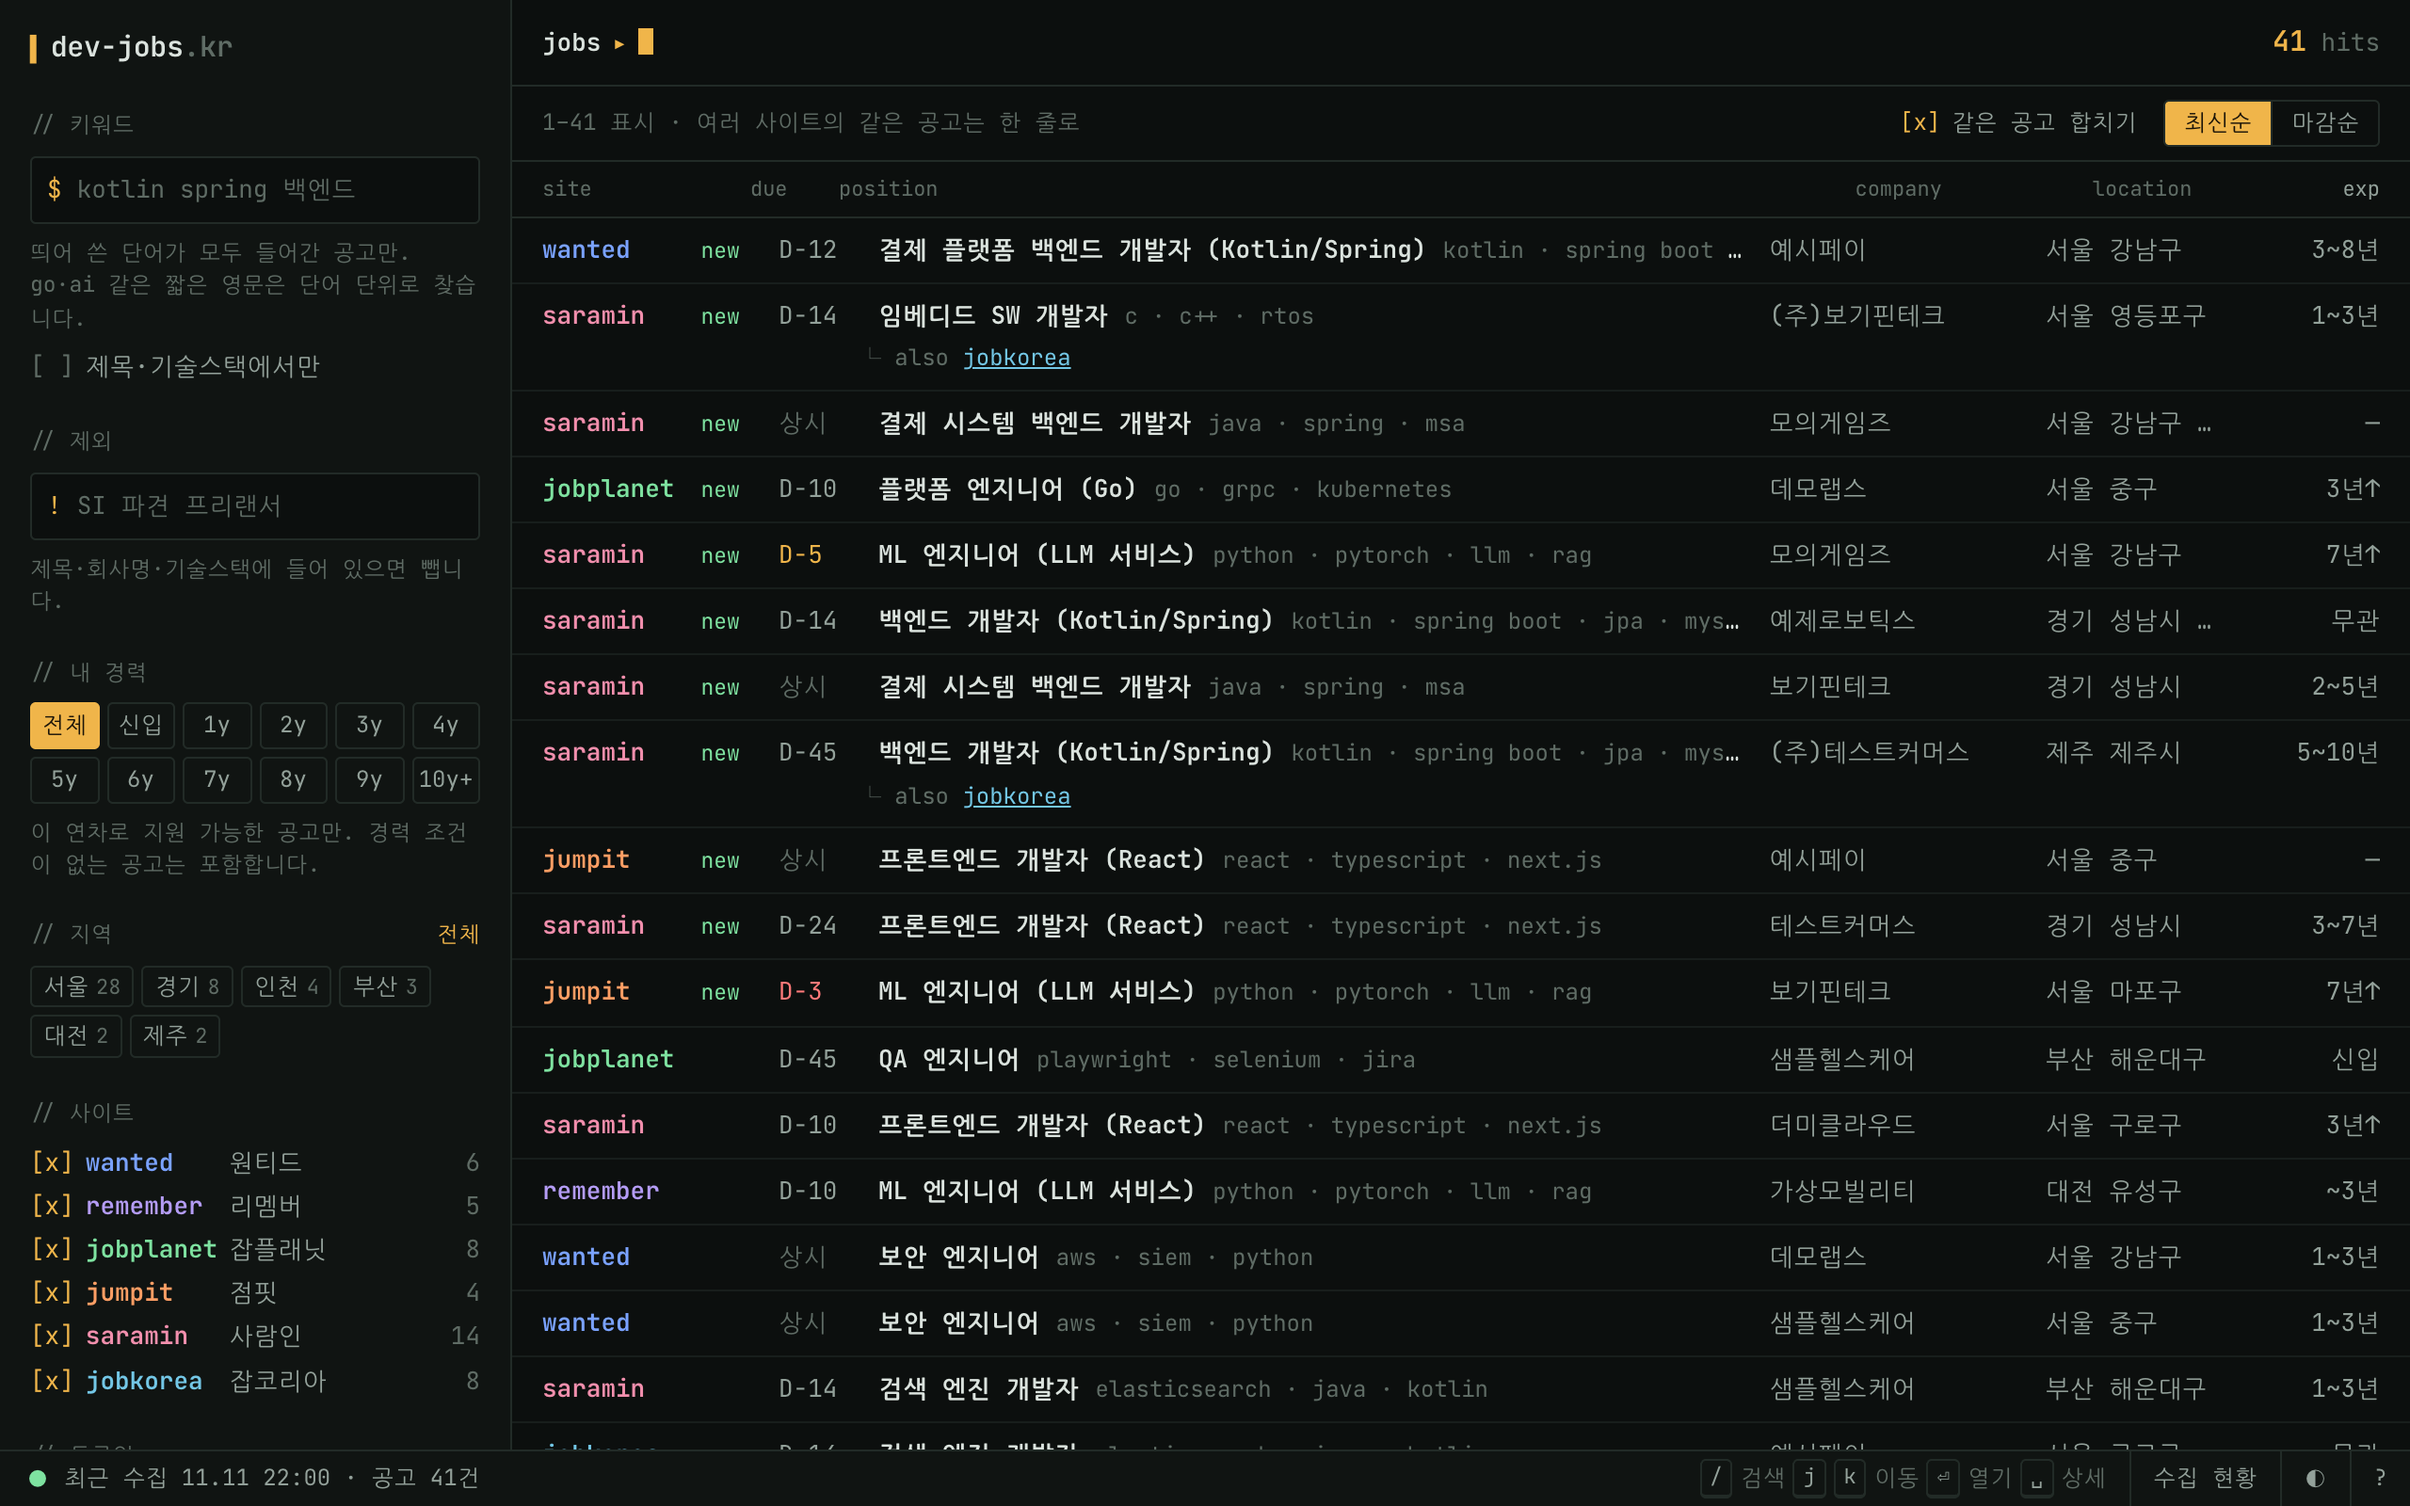
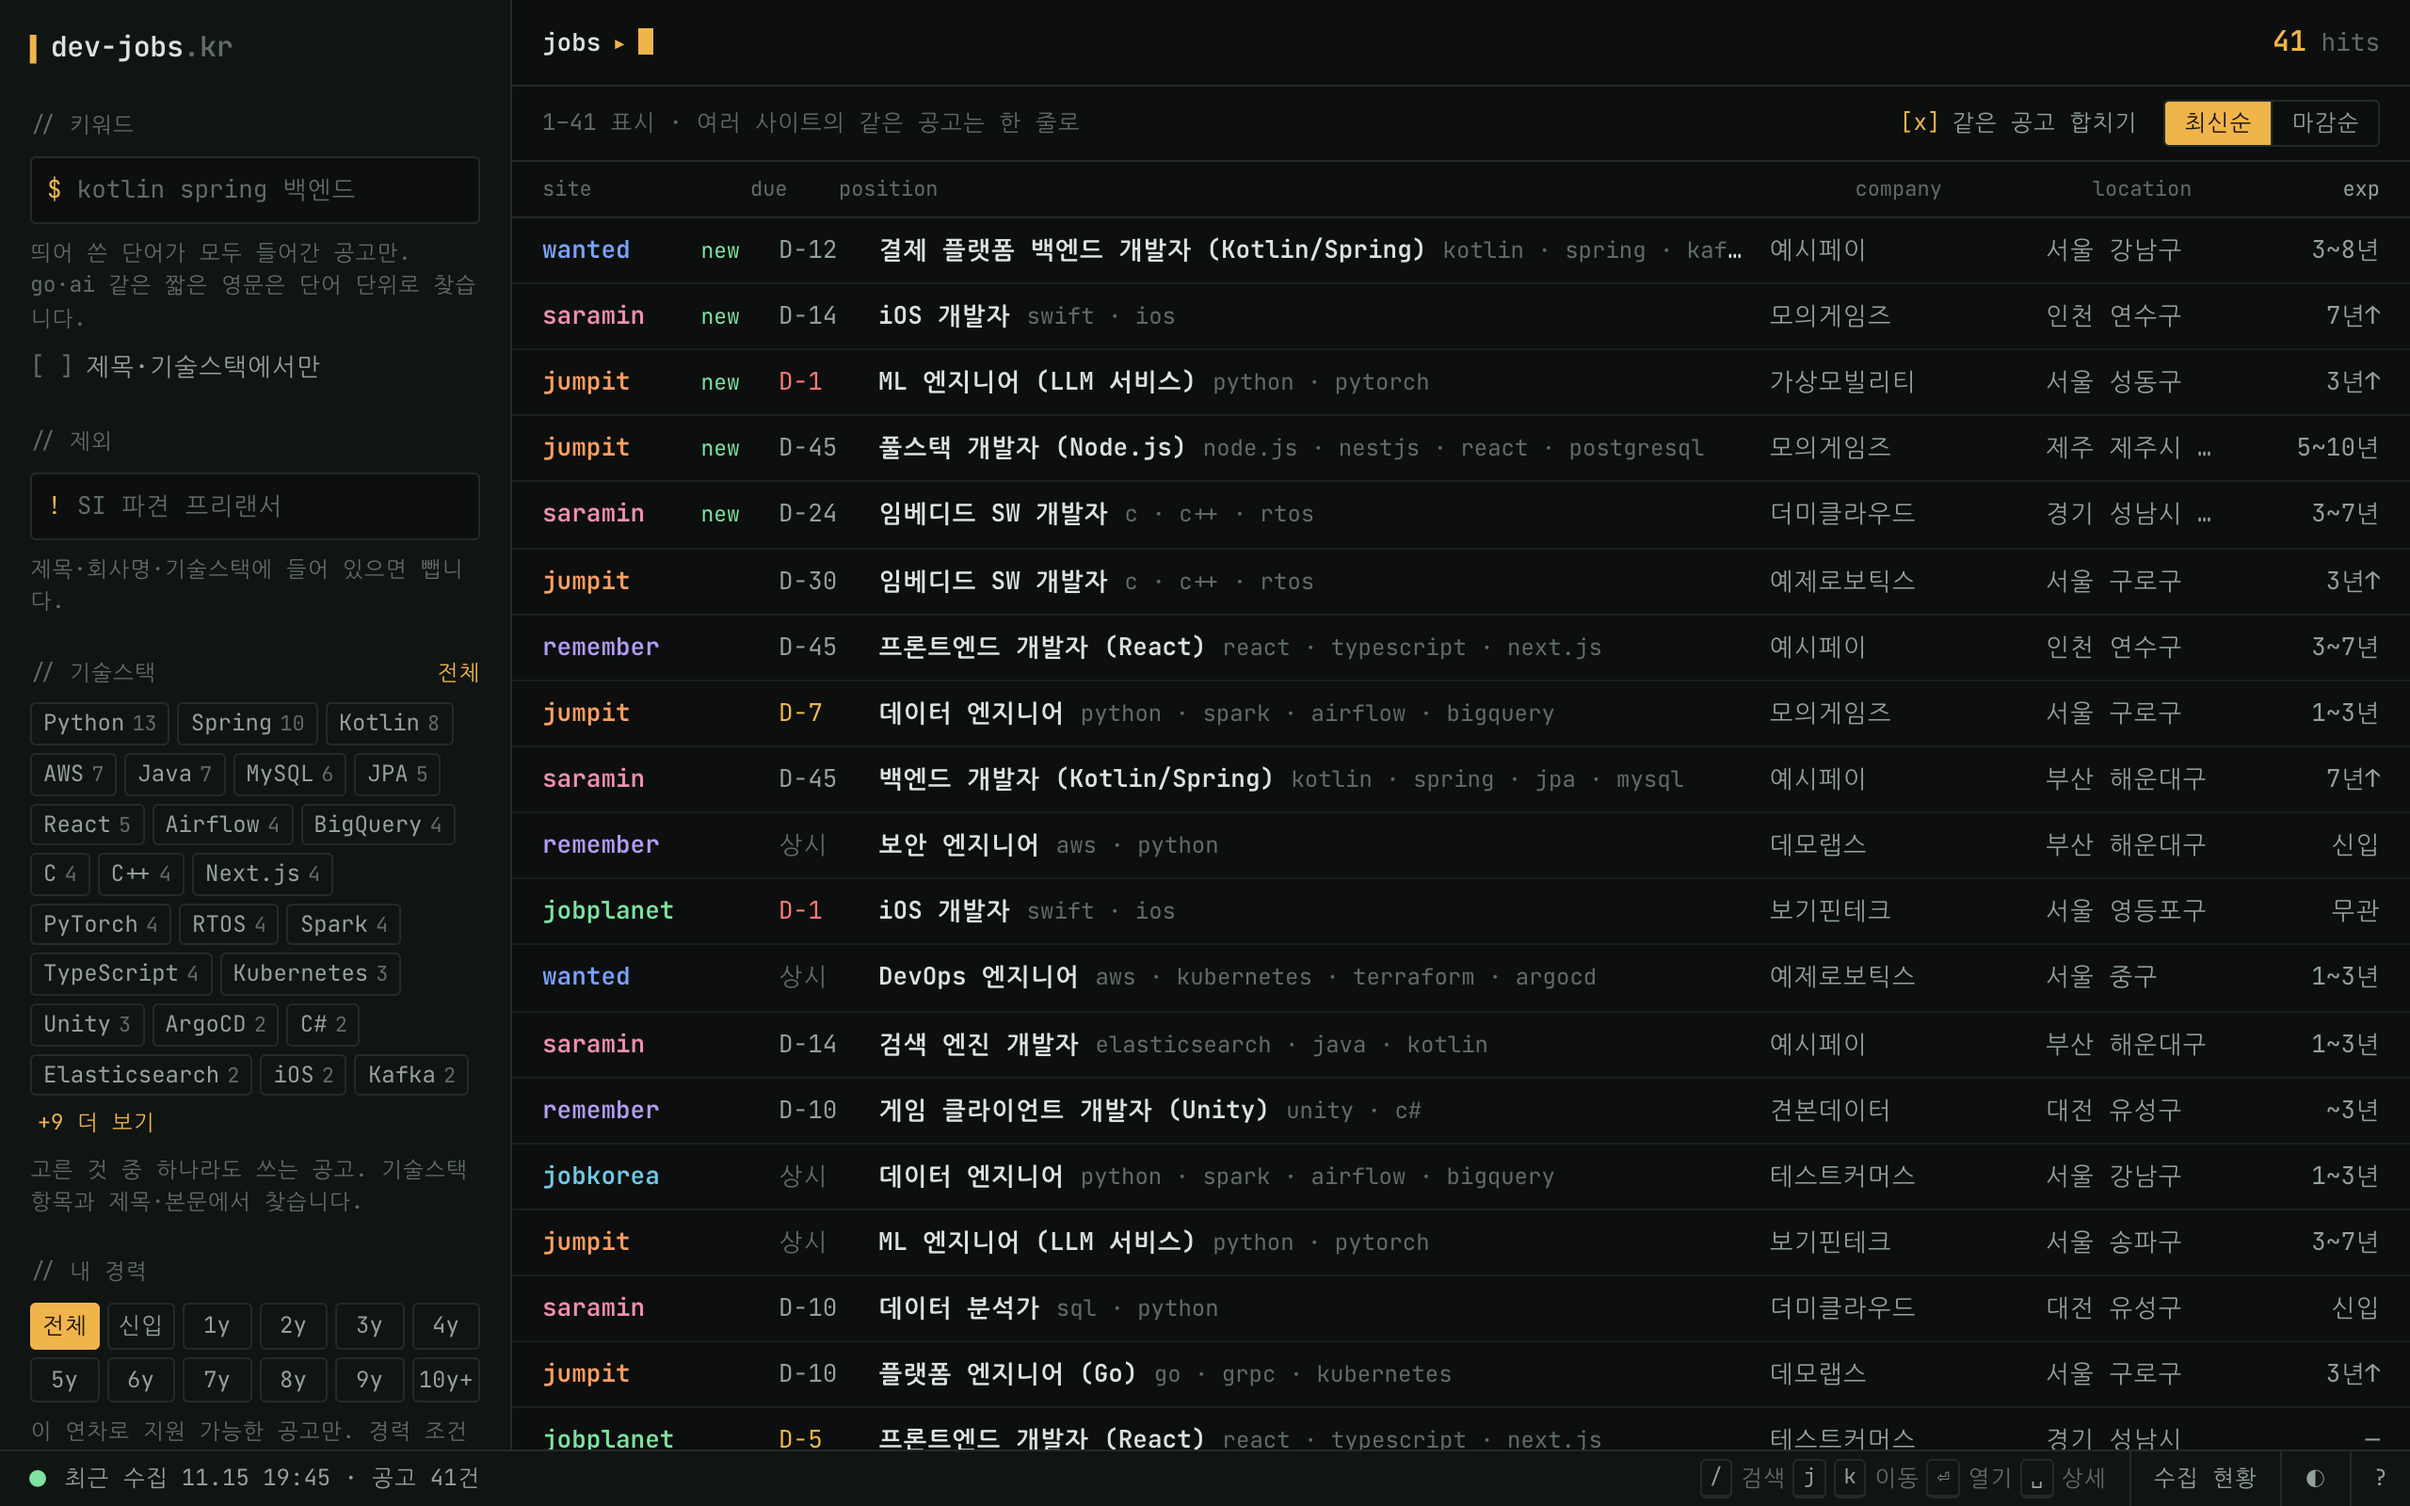
README를 현재 구현에 맞게 갱신
- 나머지 스크린샷(PC 목록, 폰 목록, 폰 상세)도 기술스택 필터와 process 줄이 보이는 화면으로 교체
- 소개, 수집 흐름, 화면 기능에 기술스택·채용 절차 반영
- 단축키를 도움말 창과 같게 (o, 화살표, esc 추가)
- 프로젝트 구조에 viewer/app·public과 기술스택·채용 절차 테스트 추가

diff --git a/README.md b/README.md
@@ -2,7 +2,7 @@
 
 원티드 · 리멤버 · 잡플래닛 · 점핏 · 사람인 · 잡코리아의 개발 직군 채용공고를
 [browser-harness](https://github.com/browser-use/browser-harness)로 수집해서,
-키워드 · 지역 · 경력 같은 조건으로 한 번에 찾는 개인용 서비스입니다.
+키워드 · 기술스택 · 채용 절차 · 지역 · 경력 같은 조건으로 한 번에 찾는 개인용 서비스입니다.
 
 수집과 조회가 나뉘어 있습니다. **수집은 맥북에서** 필요할 때 직접 실행하고, 끝나면 결과가 Supabase로 올라갑니다.
 **조회는 웹앱에서** 합니다. 웹앱은 Supabase만 읽으니 맥북이 꺼져 있어도 폰에서 볼 수 있습니다.
@@ -14,11 +14,11 @@
 
 | PC · 검색 조건과 공고 목록 | PC · 키워드 검색과 공고 상세 |
 | :---: | :---: |
-| <img src="docs/screenshots/desktop.png" width="400" alt="PC 화면: 왼쪽 검색 조건과 오른쪽 공고 목록"> | <img src="docs/screenshots/desktop-detail.png" width="400" alt="PC 화면: kotlin 키워드에 기술스택(Kotlin, Spring)과 채용 절차(코딩테스트·2차면접 있음, 사전과제 없음)로 좁힌 공고의 상세 정보와 본문"> |
+| <img src="docs/screenshots/desktop.png" width="400" alt="PC 화면: 왼쪽 검색 조건(키워드·제외·기술스택·경력)과 오른쪽 공고 목록"> | <img src="docs/screenshots/desktop-detail.png" width="400" alt="PC 화면: kotlin 키워드에 기술스택(Kotlin, Spring)과 채용 절차(코딩테스트·2차면접 있음, 사전과제 없음)로 좁힌 공고의 상세 정보와 본문"> |
 
 | 폰 · 공고 목록 | 폰 · 기술스택 · 채용 절차 · 지역 선택 | 폰 · 공고 상세 |
 | :---: | :---: | :---: |
-| <img src="docs/screenshots/mobile.png" width="200" alt="폰 화면: 공고 목록"> | <img src="docs/screenshots/mobile-filters.png" width="200" alt="폰 화면: 기술스택 선택, 채용 절차 단계별 있음·없음, 서울을 고르면 구 단위로 좁히는 지역 검색 조건"> | <img src="docs/screenshots/mobile-detail.png" width="200" alt="폰 화면: 공고 상세 정보와 본문"> |
+| <img src="docs/screenshots/mobile.png" width="200" alt="폰 화면: 공고 목록"> | <img src="docs/screenshots/mobile-filters.png" width="200" alt="폰 화면: 기술스택 선택, 채용 절차 단계별 있음·없음, 서울을 고르면 구 단위로 좁히는 지역 검색 조건"> | <img src="docs/screenshots/mobile-detail.png" width="200" alt="폰 화면: 기술스택과 채용 절차가 들어간 공고 상세 정보와 본문"> |
 
 <sub>로컬 Supabase에 예시 데이터를 넣고 촬영했습니다. 캡처의 회사와 공고는 화면을 보여 주려고 만든 가짜 데이터이고, 실제로 수집한 공고는 저장소에 올리지 않습니다.</sub>
 
@@ -120,6 +120,7 @@ caffeinate -i .venv/bin/python -m jdc scrape
 
 1. 화면 없는(headless) 전용 Chrome을 띄웁니다. 평소 쓰는 Chrome과는 따로 돌아갑니다.
 2. 사이트 6곳을 차례로 돌며 목록을 끝까지 읽습니다. 처음 보는 공고는 새로 저장하고, 이미 있는 공고는 정보를 고칩니다.
+   저장할 때마다 기술스택과 채용 절차를 다시 계산합니다([기술스택과 채용 절차를 뽑는 방법](#기술스택과-채용-절차를-뽑는-방법)).
 3. 새 공고의 상세 정보(본문, 등록일, 정확한 근무지)를 받습니다. 원티드·잡플래닛·점핏이 해당되고,
    리멤버는 목록에 본문이 들어 있고 사람인·잡코리아는 본문이 대부분 이미지라 받지 않습니다.
    잡플래닛 목록의 대부분(약 94%)은 잡코리아 공고를 다시 올린 것이라 잡플래닛에 본문이 없으므로, 이런 공고도 받지 않습니다.
@@ -259,7 +260,10 @@ jdc scrape
   잡플래닛이 잡코리아 공고를 다시 올린 것은 회사명 표기가 달라도(`SOOP` / `㈜숲(SOOP CO., LTD.)`) 공고 번호로 묶습니다.
 - 검색 조건이 URL에 남아서 북마크해 두고 다음에도 같은 조건으로 볼 수 있습니다.
 - **수집 현황**: 사이트별 최근 수집 결과와 오류, 마지막 업로드 시각을 볼 수 있습니다.
-- 단축키: `/` 검색, `j`·`k` 이동, `⏎` 원문 열기, `␣` 상세 펼치기, `[`·`]` 페이지, `s` 정렬, `m` 합치기, `t` 테마, `?` 도움말
+- 공고 목록 줄과 상세의 `stack`에는 사이트 표기 대신 맞춰 둔 기술스택 이름을 보여줍니다.
+  기술스택을 찾지 못한 공고는 목록 줄에 사이트의 기술스택 항목이나 직무를 대신 보여줍니다.
+- 단축키: `/` 검색, `j`·`k`(`↓`·`↑`) 이동, `⏎`·`o` 원문 열기, `␣`·`→` 상세 펼치기/접기, `[`·`]` 페이지,
+  `s` 정렬, `m` 합치기, `t` 테마, `esc` 입력창 빠져나오기, `?` 도움말
 
 ## 명령어
 
@@ -344,9 +348,11 @@ supabase/
   migrations/        테이블, RLS, 검색 함수 (search_jobs, jobs_meta)
   seed.sql           로컬 개발용 테스트 계정 (실제 프로젝트에는 올라가지 않습니다)
 viewer/              웹앱 (Next.js 정적 내보내기)
-  components/        화면
-  lib/               Supabase 호출, 검색 조건, 표시 형식
-tests/               파서·DB·파이프라인·업로드·검색 함수 테스트
+  app/               페이지, 전역 스타일, 아이콘
+  components/        화면 (로그인, 검색 조건, 공고 목록·상세, 도움말·수집 현황)
+  lib/               Supabase 호출, 검색 조건, 표시 형식, 테마
+  public/            폰 설치용 manifest와 아이콘, robots.txt
+tests/               파서·DB·파이프라인·업로드·검색 함수·기술스택·채용 절차 테스트
 ```
 
 ## 개발
